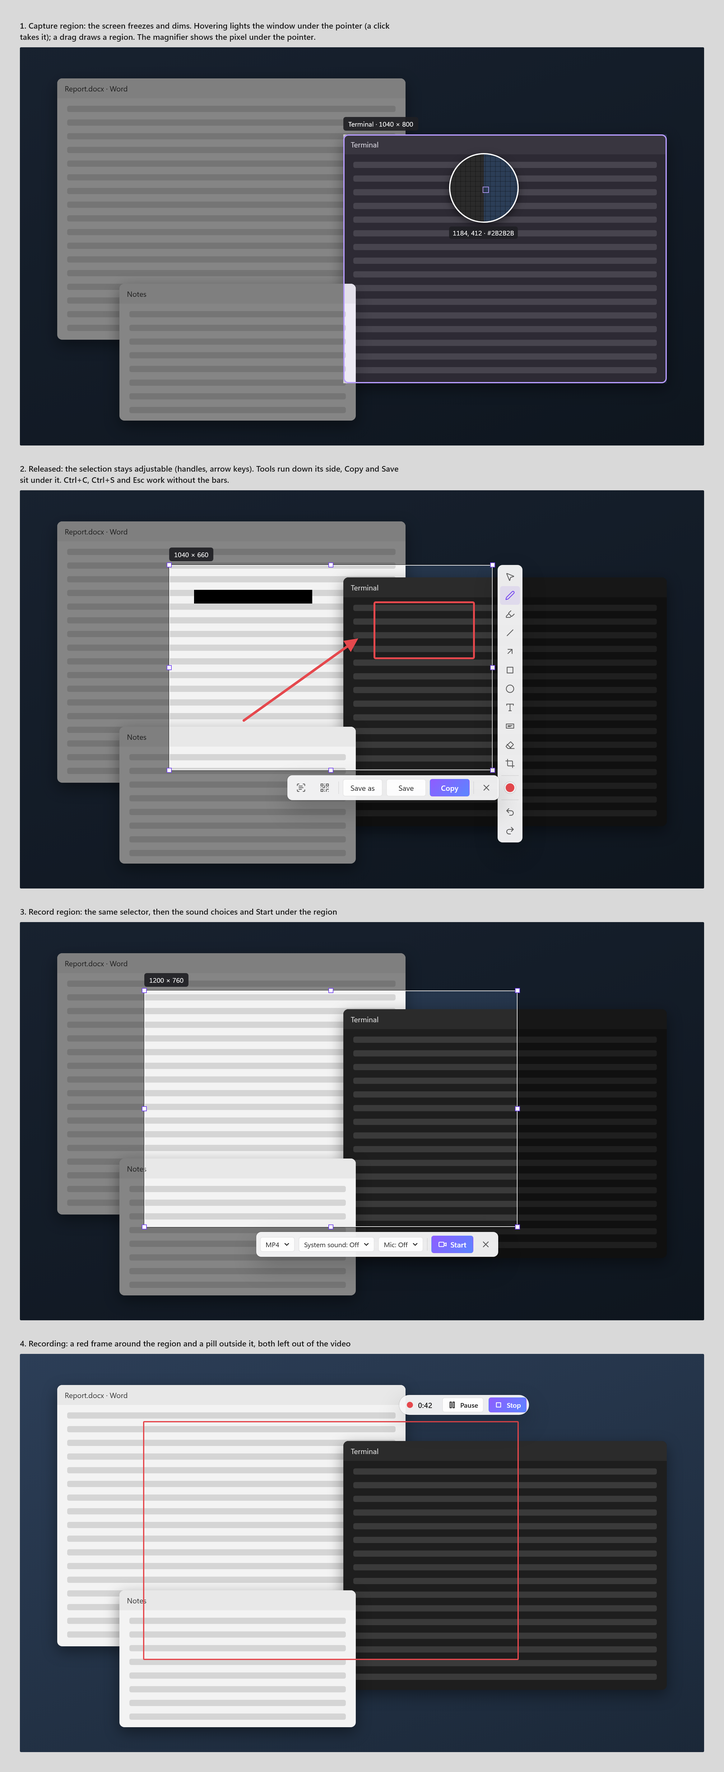
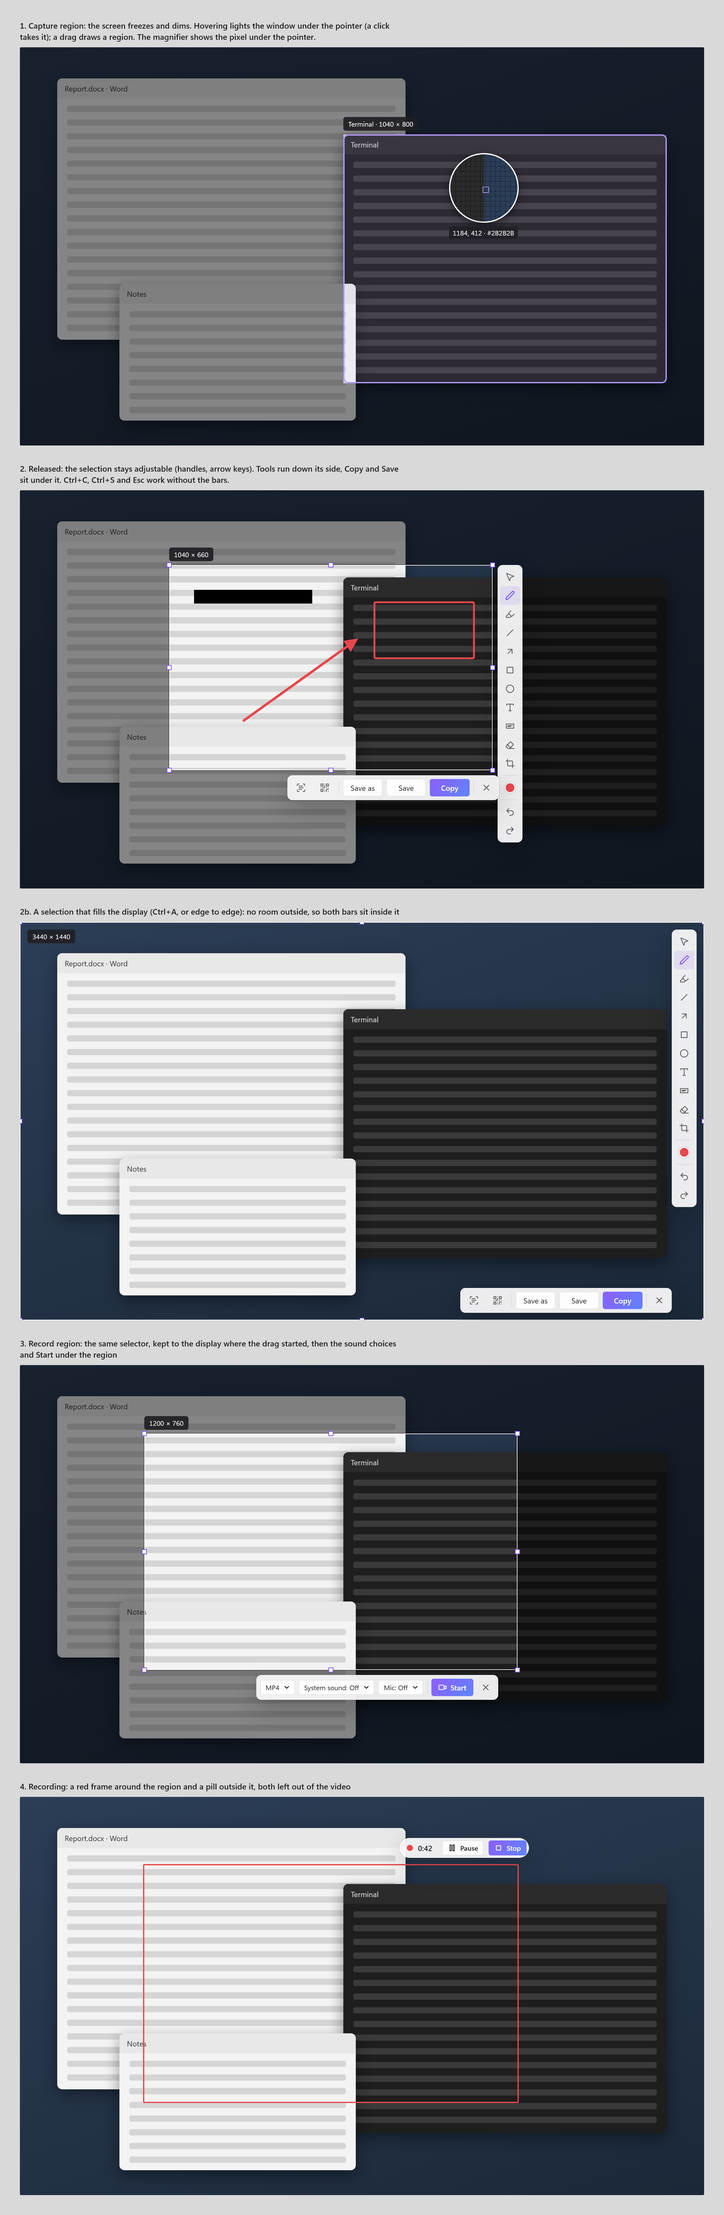
docs: surfaces fixes from review: port Free states, one display per recording, Stop over fullscreen

diff --git a/docs/phase-7/design/surfaces.html b/docs/phase-7/design/surfaces.html
@@ -221,7 +221,8 @@ Power:"M12,2 v10 M18.4,6.6 a9,9 0 1 1 -12.77,0.04",Droplet:"M12,22 a7,7 0 0 0 7,
 Snap:"M4,3 h5 v18 H4 Z M15,3 h5 v7 h-5 Z M15,14 h5 v7 h-5 Z",Mouse:"M12,2 a7,7 0 0 1 7,7 v6 a7,7 0 0 1 -14,0 V9 a7,7 0 0 1 7,-7 Z M12,6 v4",
 Switcher:"M4,10 c-1.1,0 -2,-.9 -2,-2 V4 c0,-1.1 .9,-2 2,-2 h4 c1.1,0 2,.9 2,2 M10,16 c-1.1,0 -2,-.9 -2,-2 v-4 c0,-1.1 .9,-2 2,-2 h4 c1.1,0 2,.9 2,2 M16,14 h4 a2,2 0 0 1 2,2 v4 a2,2 0 0 1 -2,2 h-4 a2,2 0 0 1 -2,-2 v-4 a2,2 0 0 1 2,-2 Z",
 Settings:"M12,9 a3,3 0 1 0 0,6 a3,3 0 1 0 0,-6 Z M12,2 v2 M12,20 v2 M4.9,4.9 l1.4,1.4 M17.7,17.7 l1.4,1.4 M2,12 h2 M20,12 h2 M4.9,19.1 l1.4,-1.4 M17.7,6.3 l1.4,-1.4",
-Speaker:"M11,5 L6,9 L2,9 L2,15 L6,15 L11,19 Z M15.5,8.5 a5,5 0 0 1 0,7 M19,5 a10,10 0 0 1 0,14"
+Speaker:"M11,5 L6,9 L2,9 L2,15 L6,15 L11,19 Z M15.5,8.5 a5,5 0 0 1 0,7 M19,5 a10,10 0 0 1 0,14",
+Shield:"M20 13c0 5-3.5 7.5-7.66 8.95a1 1 0 0 1-.67-.01C7.5 20.5 4 18 4 13V6a1 1 0 0 1 1-1c2 0 4.5-1.2 6.24-2.72a1.17 1.17 0 0 1 1.52 0C14.51 3.81 17 5 19 5a1 1 0 0 1 1 1z"
 };
 const g=(n,s=16)=>`<svg class="g" width="${s}" height="${s}" viewBox="0 0 24 24" stroke-width="${(30/s).toFixed(3)}"><path d="${P[n]}"/></svg>`;
 const q=new URLSearchParams(location.search);
@@ -278,6 +279,8 @@ const actBar=`<div class="acts" style="left:${SX+SW-330}px;top:${SY+SH+8}px"><bu
 const marks=`<svg class="mk" style="left:${SX}px;top:${SY}px" width="${SW}" height="${SH}"><path d="M120 250 L296 124" stroke="#E5484D" stroke-width="4" fill="none" stroke-linecap="round"/><path d="M304 118 l-24 4 l12 18 z" fill="#E5484D"/><rect x="330" y="60" width="160" height="90" rx="2" fill="none" stroke="#E5484D" stroke-width="3"/><rect x="40" y="40" width="190" height="22" fill="#000"/></svg>`;
 const ovEdit=`<div class="scr">${desk}${dimAround(SX,SY,SW,SH)}<div class="selx" style="left:${SX}px;top:${SY}px;width:${SW}px;height:${SH}px"></div>${handles(SX,SY,SW,SH)}${marks}
  <div class="size" style="left:${SX}px;top:${SY-28}px">1040 × 660</div>${toolCol}${actBar}</div>`;
+const ovFull=`<div class="scr">${desk}<div class="selx" style="left:0;top:0;width:1100px;height:640px"></div>${handles(0,0,1100,640)}
+ <div class="size" style="left:12px;top:12px">3440 × 1440</div>${toolCol.replace(`left:${SX+SW+8}px;top:${SY}px`,'left:1048px;top:12px')}${actBar.replace(`left:${SX+SW-330}px;top:${SY+SH+8}px`,'left:708px;top:588px')}</div>`;
 const RX=200,RY=110,RW=600,RH=380;
 const ovRec=`<div class="scr">${desk}<div class="frame" style="left:${RX-2}px;top:${RY-2}px;width:${RW+4}px;height:${RH+4}px"></div>
  <div class="pill" style="left:${RX+RW-190}px;top:${RY-44}px"><span class="dot"></span>0:42<span style="flex:1"></span>${ib('Pause',{sm:1,g:'Pause'})}${ib('Stop',{sm:1,acc:1,g:'Stop'})}</div></div>`;
@@ -291,7 +294,7 @@ const ring=f=>`<svg width="22" height="22" viewBox="0 0 24 24"><circle cx="12" c
 
 /* ---------- Displays ---------- */
 const slider=v=>`<span class="slider"><i style="width:${v}%"></i><b style="left:${v}%"></b></span>`;
-const drow=(name,v,o={})=>`<div class="card drow">${g(o.all?'Screens':'Monitor',16)}<span class="nm">${name}${o.main?' <span class="t3">· Main</span>':''}</span>${o.na?`<span style="flex:1"></span><span class="t3">Not available</span>`:slider(v)+`<span class="pc">${v}%</span>`}</div>`;
+const drow=(name,v,o={})=>`<div class="card drow">${g(o.all?'Screens':'Monitor',16)}<span class="nm">${name}${o.main?' <span class="t3">· Main</span>':''}</span>${o.na?`<span style="flex:1"></span><span class="t3">Brightness control failed</span>`:slider(v)+`<span class="pc">${v}%</span>`}</div>`;
 const dispSeg=c=>`<span class="seg"><span${c?'':' class="on"'}>Brightness</span><span${c?' class="on"':''}>Contrast</span></span>`;
 const dispMain=panel('Displays',drow('All displays',57,{all:1})+drow('OMEN 34c',54,{main:1})+drow('Samsung S24',60),{aside:dispSeg()});
 const dispContrast=panel('Displays',drow('All displays',88,{all:1})+drow('OMEN 34c',100,{main:1})+drow('Samsung S24',75),{aside:dispSeg(1)});
@@ -316,11 +319,15 @@ const cleanList=panel('Clean junk files',`<div style="display:flex;align-items:c
 const cleanConfirm=panel('Clean junk files',`<div class="q"><span class="qt">Clean 1.0 GB for good?</span><span style="display:flex;gap:8px">${ib('Cancel')}${ib('Clean',{crit:1})}</span></div>`);
 
 /* ---------- Search ---------- */
-const isr=(lead,nm,dt,o={})=>`<div class="isr${o.sel?' sel':''}"><span class="ld">${lead}</span><span><div class="nm">${nm}</div><div class="dt">${dt}</div></span>${o.lvl!=null?`<span class="lvl"><i style="width:${o.lvl}%"></i></span>`:''}${o.sel?`<span class="vb">${o.verb}</span>`:''}</div>`;
+const isr=(lead,nm,dt,o={})=>`<div class="isr${o.sel?' sel':''}"><span class="ld">${lead}</span><span><div class="nm">${nm}</div><div class="dt">${dt}</div></span>${o.lvl!=null?`<span class="lvl"><i style="width:${o.lvl}%"></i></span>`:''}${o.sel&&o.verb?`<span class="vb" style="display:flex;align-items:center;gap:4px">${o.sh?g('Shield',12):''}${o.verb}</span>`:''}</div>`;
 const search=(qtext,rows)=>`<div class="panel"><div class="hdr" style="height:32px"><button class="ib back" aria-label="Back">${g('ChevronLeft',16)}</button><span class="sfield">${qtext}</span></div><div style="margin-top:8px">${rows}</div></div>`;
 const sCapture=search('capt',isr(g('Region'),'Capture region','Capture · PrtSc',{sel:1,verb:'Run'})+isr(g('AppWindow'),'Capture window','Capture')+isr(g('Monitor'),'Capture full screen','Capture')+isr(g('Screens'),'Capture all displays','Capture')+isr(g('History'),'Capture last region','Capture')+isr(g('Image'),'Capture','Island page')+isr(g('Settings'),'Screen capture','Settings'));
 const sPort=search('port 3000',isr(g('Network'),'Port 3000 · node.exe','PID 4120 · Listening on 127.0.0.1',{sel:1,verb:'Free'})+isr(g('Network'),'Ports','Settings'));
-const sPortConfirm=`<div class="panel"><div class="q"><span class="qt">End node.exe to free port 3000?</span><span style="display:flex;gap:8px">${ib('Cancel')}${ib('End',{crit:1})}</span></div></div>`;
+const confirm=(t,verb,o={})=>`<div class="panel"><div class="q"><span class="qt">${t}</span><span style="display:flex;gap:8px">${ib('Cancel')}${ib(verb,{crit:1,g:o.sh?'Shield':''})}</span></div></div>`;
+const sPortConfirm=confirm('End node.exe to free port 3000?','End');
+const sPortService=search('port 9100',isr(g('Network'),'Port 9100 · Print Spooler','Service · PID 2880 · Listening on 0.0.0.0',{sel:1,verb:'Stop',sh:1})+isr(g('Network'),'Ports','Settings'));
+const sServiceConfirm=confirm('Stop service Print Spooler to free port 9100?','Stop',{sh:1});
+const sPortSystem=search('port 445',isr(g('Network'),'Port 445 · System','PID 4 · Listening on 0.0.0.0',{sel:1})+isr(g('Network'),'Port 445 · Closing','PID 0 · TIME_WAIT to 192.168.1.20')+isr(g('Network'),'Ports','Settings'));
 const sBright=search('bright 40',isr(g('Sun'),'Brightness to 40%','All displays',{sel:1,verb:'Run',lvl:40})+isr(g('Sun'),'Brightness up','Displays')+isr(g('Sun'),'Brightness down','Displays')+isr(g('Sun'),'Displays','Island page'));
 
 /* ---------- Settings ---------- */
@@ -343,18 +350,22 @@ const B={
   <div class="srow">${L('Convert, with four images: Convert, Resize or Compress, then Run',stage(resConvert))}${L('Convert, empty: drop files or Add files',stage(resConvertEmpty))}</div>`,
  'sheet-overlay':()=>`<div class="srow">${L('1. Capture region: the screen freezes and dims. Hovering lights the window under the pointer (a click takes it); a drag draws a region. The magnifier shows the pixel under the pointer.',ovSelect)}</div>
   <div class="srow">${L('2. Released: the selection stays adjustable (handles, arrow keys). Tools run down its side, Copy and Save sit under it. Ctrl+C, Ctrl+S and Esc work without the bars.',ovEdit)}</div>
-  <div class="srow">${L('3. Record region: the same selector, then the sound choices and Start under the region',ovRecStart)}</div>
+  <div class="srow">${L('2b. A selection that fills the display (Ctrl+A, or edge to edge): no room outside, so both bars sit inside it',ovFull)}</div>
+  <div class="srow">${L('3. Record region: the same selector, kept to the display where the drag started, then the sound choices and Start under the region',ovRecStart)}</div>
   <div class="srow">${L('4. Recording: a red frame around the region and a pill outside it, both left out of the video',ovRec)}</div>`,
  'sheet-bar':()=>`<div class="srow">${L('Copied (Copy, or Ctrl+drag)',bar(`<span style="width:34px;height:34px;background:${T1}"></span>`,'Copied','Region · 1280 × 720'))}${L('Saved',bar(`<span style="width:34px;height:34px;background:${T2}"></span>`,'Saved','Capture 2026-11-06 101500.png'))}${L('Copy failed: the draft stays open',bar(g('TriangleAlert'),'Copy failed','Capture',{cau:1}))}</div>
   <div class="srow">${L('Copy text from screen',bar(g('ScanText'),'Copied text','31 words'))}${L('Nothing read: the clipboard is left alone',bar(g('ScanText'),'No text found','Text and QR',{cau:1}))}${L('Pick color',bar('','#7C5CFF','Copied as HEX',{leadStyle:'background:#7C5CFF'}))}</div>
-  <div class="srow">${L('Capture after delay',bar(ring(1/3),'Capturing in 2','Region'))}${L('Recording: the highest activity; a click opens Capture',bar('<span class="dot"></span>','0:42','Recording · Region'))}${L('App updates running',bar(ring(2/5),'2 of 5 updated','App updates'))}</div>`,
+  <div class="srow">${L('Capture after delay',bar(ring(1/3),'Capturing in 2','Region'))}${L('Recording: the highest activity; a click opens Capture',bar('<span class="dot"></span>','0:42','Recording · Region'))}${L('App updates running',bar(ring(2/5),'2 of 5 updated','App updates'))}</div>
+  <div class="srow">${L('Stopped over a fullscreen app, once the widget is back',bar(`<span style="width:34px;height:34px;background:${T3}"></span>`,'Recording saved','0:42 · Region'))}</div>`,
  'sheet-displays':()=>`<div class="srow">${L('Displays: All displays moves every slider together',stage(dispMain))}${L('Contrast (external monitors only)',stage(dispContrast))}</div>
-  <div class="srow">${L('A display that doesn\'t answer: its reason is in Settings › Displays',stage(dispNa))}${L('One display: no All displays row',stage(dispOne))}</div>`,
+  <div class="srow">${L('A display that doesn\'t answer: Settings › Displays lists the likely causes',stage(dispNa))}${L('One display: no All displays row',stage(dispOne))}</div>`,
  'sheet-actions':()=>`<div class="srow">${L('Actions with Apps added: 19 of 20 places',stage(actionsGallery))}${L('Actions › Apps',stage(appsMenu))}</div>
   <div class="srow">${L('Update apps: real app icons in the build (AppIcon.View)',stage(updList))}${L('Nothing to update',stage(updEmpty))}</div>
   <div class="srow">${L('Clean junk files: measured on open, ticks remembered',stage(cleanList))}${L('Clean asks first',stage(cleanConfirm))}</div>`,
  'sheet-search':()=>`<div class="srow">${L('Every verb is a Search row',stage(sCapture))}${L('A port number finds who holds it',stage(sPort))}</div>
-  <div class="srow">${L('Free asks first, naming the process',stage(sPortConfirm))}${L('A brightness value, like "volume 40"',stage(sBright))}</div>`,
+  <div class="srow">${L('Free asks first, naming the process',stage(sPortConfirm))}${L('A service is stopped, never its host process; the shield means a UAC prompt',stage(sPortService))}</div>
+  <div class="srow">${L('Stopping a service asks first; so does ending an admin, system or other user\'s process, with the shield on End',stage(sServiceConfirm))}${L('System (PID 4) and closing (PID 0) rows have no verb; Enter opens Settings › Ports',stage(sPortSystem))}</div>
+  <div class="srow">${L('A brightness value, like "volume 40"',stage(sBright))}</div>`,
  'settings':()=>capSettings
 };
 document.body.className=theme;

diff --git a/docs/phase-7/surfaces.md b/docs/phase-7/surfaces.md
@@ -76,7 +76,7 @@ Every feature has at least three doors, and each verb has exactly one home.
 This is Lightshot's flow on Snipping Tool's feature list.
 
 1. **Select:** one key, and every display freezes and dims. Hovering lights the frontmost window, and a click takes it. A drag draws a region (ShareX and Snipaste work this way, so Region mode covers Window too). A magnifier shows the pixel, its coordinates and color, and can be hidden in Settings. A size pill shows "1040 × 800" at the selection's corner.
-2. **Mark up in place:** on release the selection keeps its handles, and arrow keys move it by a pixel (Shift resizes, as Flameshot does). The tools run down the selection's side in one 40-wide column: Select, Pen, Highlighter, Line, Arrow, Rectangle, Ellipse, Text, Redact, Eraser, Crop, then color, then Undo and Redo. Copy and Save sit in a bar under it: Copy text, Scan QR, Save as, Save, Copy (the accent) and Cancel. This is Lightshot's two-bar layout, so a small selection still gets every tool. Each bar flips to the other side when the selection reaches a screen edge, and stays on a visible display.
+2. **Mark up in place:** on release the selection keeps its handles, and arrow keys move it by a pixel (Shift resizes, as Flameshot does). The tools run down the selection's side in one 40-wide column: Select, Pen, Highlighter, Line, Arrow, Rectangle, Ellipse, Text, Redact, Eraser, Crop, then color, then Undo and Redo. Copy and Save sit in a bar under it: Copy text, Scan QR, Save as, Save, Copy (the accent) and Cancel. This is Lightshot's two-bar layout, so a small selection still gets every tool. Each bar flips to the other side when the selection reaches a screen edge. The bars live on the display where the drag was released, clamped to it, so they never span two displays. A selection that fills the whole display (Ctrl+A, or edge to edge) has no outside, so both bars sit inside it, as in Lightshot (board `sheet-overlay` 2b).
 3. **Fast path:** hold Ctrl as the drag starts, and release copies and closes with no bars (Lightshot). Ctrl+C, Ctrl+S, Esc and Enter work with no click.
 4. **Text and QR from a capture:** the same selection's Copy text and Scan QR buttons, so a region you already drew doesn't need drawing again.
 
@@ -84,9 +84,11 @@ The bars use island surfaces (fill, rim, shadow, 4-radius controls), so they rea
 
 ### Recording (boards `sheet-overlay` 3 and 4, `sheet-bar`)
 
+- **One display per recording:** the first build records one display per session (architecture §3). The selector keeps a recording region to the display where the drag started, so the selection stops at that display's edge. Record window and Record screen record the display the window or screen is on. Screenshots can still span displays (§2). A region over two displays is a later build, listed in Step 2 as a cost.
 - **Before Start:** the same selector, then a bar under the region with MP4 or GIF, System sound (Off by default), Mic (Off by default), Start and Cancel. Nothing records until Start.
-- **While recording:** a 2px red frame around the region and a pill just outside it (elapsed time, Pause, Stop). The pill is needed because the widget can sit on another display, and it hides while a fullscreen app is in front of its display (DESIGN.md §5). The bar shows "0:42 · Recording · Region" as the highest activity, and a click opens the Capture panel's recording card. Stop recording has its own shortcut.
-- **Stopped:** the Capture panel opens on the recording page with the poster, play, a trim bar, Discard, Export GIF, Save as and Save. Nothing plays on its own.
+- **While recording:** a 2px red frame around the region and a pill just outside it (elapsed time, Pause, Stop). The pill is its own top-level window, not part of the frame, and both are left out of the video. The puck is left out only while a recording runs, so it still shows in screen shares and stills. The pill is needed because the widget can sit on another display, and it hides while a fullscreen app is in front of its display (DESIGN.md §5). The bar shows "0:42 · Recording · Region" as the highest activity, and a click opens the Capture panel's recording card. Stop recording has its own shortcut.
+- **Stopped:** the Capture panel opens on the recording page with the poster, play, a trim bar, Discard, Export GIF, Save as and Save. Nothing plays on its own. Trim re-encodes, so the page has a progress state while it runs.
+- **Stopped over a fullscreen app:** the panel can't open while a fullscreen app holds the widget's display, and summoning it over a game that's still running would be the worse surprise. So Stop saves the recording to Settings › Recording's Save to folder and adds it to Recent. The bar shows "Recording saved" with its length and source ("0:42 · Region") once the widget is back, and a click opens the recording page, where Trim, Export GIF and Discard still work. The page never opens by itself later (board `sheet-bar`).
 
 ### Results (board `sheet-results`)
 
@@ -107,7 +109,7 @@ The rule: a result that copies says so on the bar for 6 seconds. A result you ne
 - **Essentials:** Displays is in the Essentials preset, the last one not built. A fresh Essentials install gets it on the home next to Audio and System.
 - **Fit:** it's the 12th tile and fills row 3 (section 2).
 
-The panel's header switches between Brightness and Contrast (Contrast only for external monitors), the way Audio switches views. There's an All displays row (left out with one display), then a 44-tall card per display: its name, "· Main", a slider and the percentage. Up to five rows fit, so four displays plus All displays. A display that doesn't answer shows "Not available", and Settings › Displays gives the reason ("Turn on DDC/CI in the monitor's menu"). Extend and Turn off displays stay in Actions, since they're Windows display modes and power, not brightness.
+The panel's header switches between Brightness and Contrast (Contrast only for external monitors), the way Audio switches views. There's an All displays row (left out with one display), then a 44-tall card per display: its name, "· Main", a slider and the percentage. Up to five rows fit, so four displays plus All displays. A display that doesn't answer shows "Brightness control failed" (architecture's copy). Chippi can't tell DDC/CI being off in the monitor's menu from a dock or adapter that doesn't pass it on, so Settings › Displays lists the likely causes rather than one reason. Extend and Turn off displays stay in Actions, since they're Windows display modes and power, not brightness.
 
 The alternative, if Travis would rather keep the 12th place free: an Actions menu "Displays" whose view holds the same sliders, like Snap's custom view. That puts it two clicks away.
 
@@ -125,7 +127,16 @@ The alternative, if Travis would rather keep the 12th place free: an Actions men
 - **Clean junk files:** the categories, measured on open, with sizes and the last ticks remembered. "Check first" and "Needs admin" tags. Clean in the header asks "Clean 1.0 GB for good?" with Cancel and Clean.
 - **Uninstall:** opens Settings › Apps › Uninstaller with its search focused (the open glyph, like Arrangements' Manage).
 
-**Port manager lives in Search and Settings** (board `sheet-search`). The task is "who holds port 3000?", a lookup by number, so typing "port 3000" in Search gives the row "Port 3000 · node.exe" with its PID and state, and its verb is Free. Free asks "End node.exe to free port 3000?" with Cancel and End. "Ports" opens Settings › System › Ports, the live list.
+**Port manager lives in Search and Settings** (board `sheet-search`). The task is "who holds port 3000?", a lookup by number, so typing "port 3000" in Search gives the row "Port 3000 · node.exe" with its PID and state. "Ports" opens Settings › System › Ports, the live list. The row's verb depends on what holds the port (architecture §9):
+
+| Holder | Row's verb | Confirm |
+|---|---|---|
+| Your own process | Free | "End node.exe to free port 3000?" with Cancel and End |
+| A service (its row says "Service") | Stop, with the UAC shield | "Stop service Print Spooler to free port 9100?" with Cancel and Stop. Only the service stops, never its `svchost` host, which may run others. |
+| An admin, SYSTEM or other user's process | Free, with the UAC shield | "End postgres.exe to free port 5432?" with Cancel and End, the shield on End. It goes through the admin helper (wave 3), one UAC prompt. |
+| System (PID 4) or a closing connection (PID 0, TIME_WAIT) | none | Enter opens Settings › Ports at that row. |
+
+Before Free or Stop runs, the row is read again (PID and start time). If the process has changed or gone, nothing is ended, and the row updates. The shield is Windows' own stock shield icon. Settings › Ports uses the same verbs and confirms.
 
 The Search value rows "brightness 40" and "port 3000" follow the existing "volume 40" pattern.
 
@@ -143,7 +154,7 @@ Each feature gets one page in its catalog group's section of the sidebar (board 
 | Apps | App updates | The full list, Skipped with Restore, history, "Show apps with an unknown version", Shortcuts |
 | Apps | Uninstaller | Search, sort and filter over every app, the leftover review, Shortcuts |
 | Apps | Cleaner | Categories with descriptions, what each never touches, Shortcuts |
-| System | Displays | Each display's reason when it doesn't answer, step size, which display the keys act on, Reset, Shortcuts |
+| System | Displays | The likely causes when a display doesn't answer, step size, which display the keys act on, Reset, Shortcuts |
 | System | Ports | The live list (protocol, ports, state, process with icon and path), all connections, Shortcuts |
 
 ## 8. What we took from each competitor's screens
@@ -156,7 +167,7 @@ Each feature gets one page in its catalog group's section of the sidebar (board 
 | Flameshot | Arrow keys nudge and Shift resizes; tool letters | |
 | CleanShot X | One Capture home with the recent results beside the tools | The floating thumbnail after every capture (the bar line does that job) |
 | PowerToys Color Picker, Text Extractor | Copy straight away, or review with formats | |
-| Twinkle Tray, Monitorian | One click to the sliders, All displays together, plain reasons for a display that doesn't answer | Time-of-day schedules |
+| Twinkle Tray, Monitorian | One click to the sliders, All displays together, plain likely causes for a display that doesn't answer | Time-of-day schedules |
 | UniGetUI, Patch My PC | List, Update, Update all; close the app first | Several package managers, schedules |
 | BleachBit | Measure first, then a confirm with the size | Shredding |
 | TCPView, CurrPorts | Process name, icon and path on every port | Closing single connections in the first build |
@@ -168,14 +179,16 @@ Each feature gets one page in its catalog group's section of the sidebar (board 
 3. **Port manager without a tile or menu:** Search's "port 3000" and Settings › Ports (recommended).
 4. **Media tools inside Capture:** the Convert page on the Capture panel rather than a tile (recommended).
 5. **The recording pill:** a small pill beside the recorded region as well as the bar (recommended, because the widget hides over fullscreen apps).
+6. **A recording region over two displays:** one display per recording in the first build (recommended). Recording across two needs two sessions composed into one picture, an M of work on its own.
 
-## 10. For Kayla to check (feasibility)
+## 10. Feasibility (Kayla's review of #280)
 
-- The recording frame and pill are left out of the video. **Inference:** `SetWindowDisplayAffinity(WDA_EXCLUDEFROMCAPTURE)` on Chippi's own windows; also the puck, if it's inside the region.
-- Region mode takes a window on click and a region on drag, using architecture §2's snapshot window list.
-- The overlay's two bars flip at screen edges and never span two displays at different scales.
-- The Capture panel reads its recent thumbnails from the history index without slowing the panel's open (pre-sized thumbnails).
-- Search value rows for "port N" read the IP Helper table on each keystroke (about 2 ms measured in architecture.md).
+- **Frame and pill out of the video:** feasible with `WDA_EXCLUDEFROMCAPTURE`, which works on Chippi's transparent windows. The pill must be its own top-level window. The puck is excluded only while a recording runs.
+- **Click takes a window, drag draws a region:** feasible from architecture §2's snapshot list, with Windows' drag threshold telling them apart. Chippi's own puck and pill are left out of the list.
+- **Bars never span two displays:** each display has its own overlay, so a bar is clamped to the display where the drag was released.
+- **Recent thumbnails:** small thumbnails are saved into the history index when a capture is kept (a poster frame for a recording), so the panel's open decodes nothing. Kayla adds this to the capture brief.
+- **"port N" per keystroke:** the port table reads in about 2 ms; process names and services are read once per query, and the row is read again before Free.
+- **Verbs the capture brief adds:** Pause and Resume, Trim, playback on the recording page, and Record window's frame following the window as it moves. All feasible.
 
 ## Not verified
 
